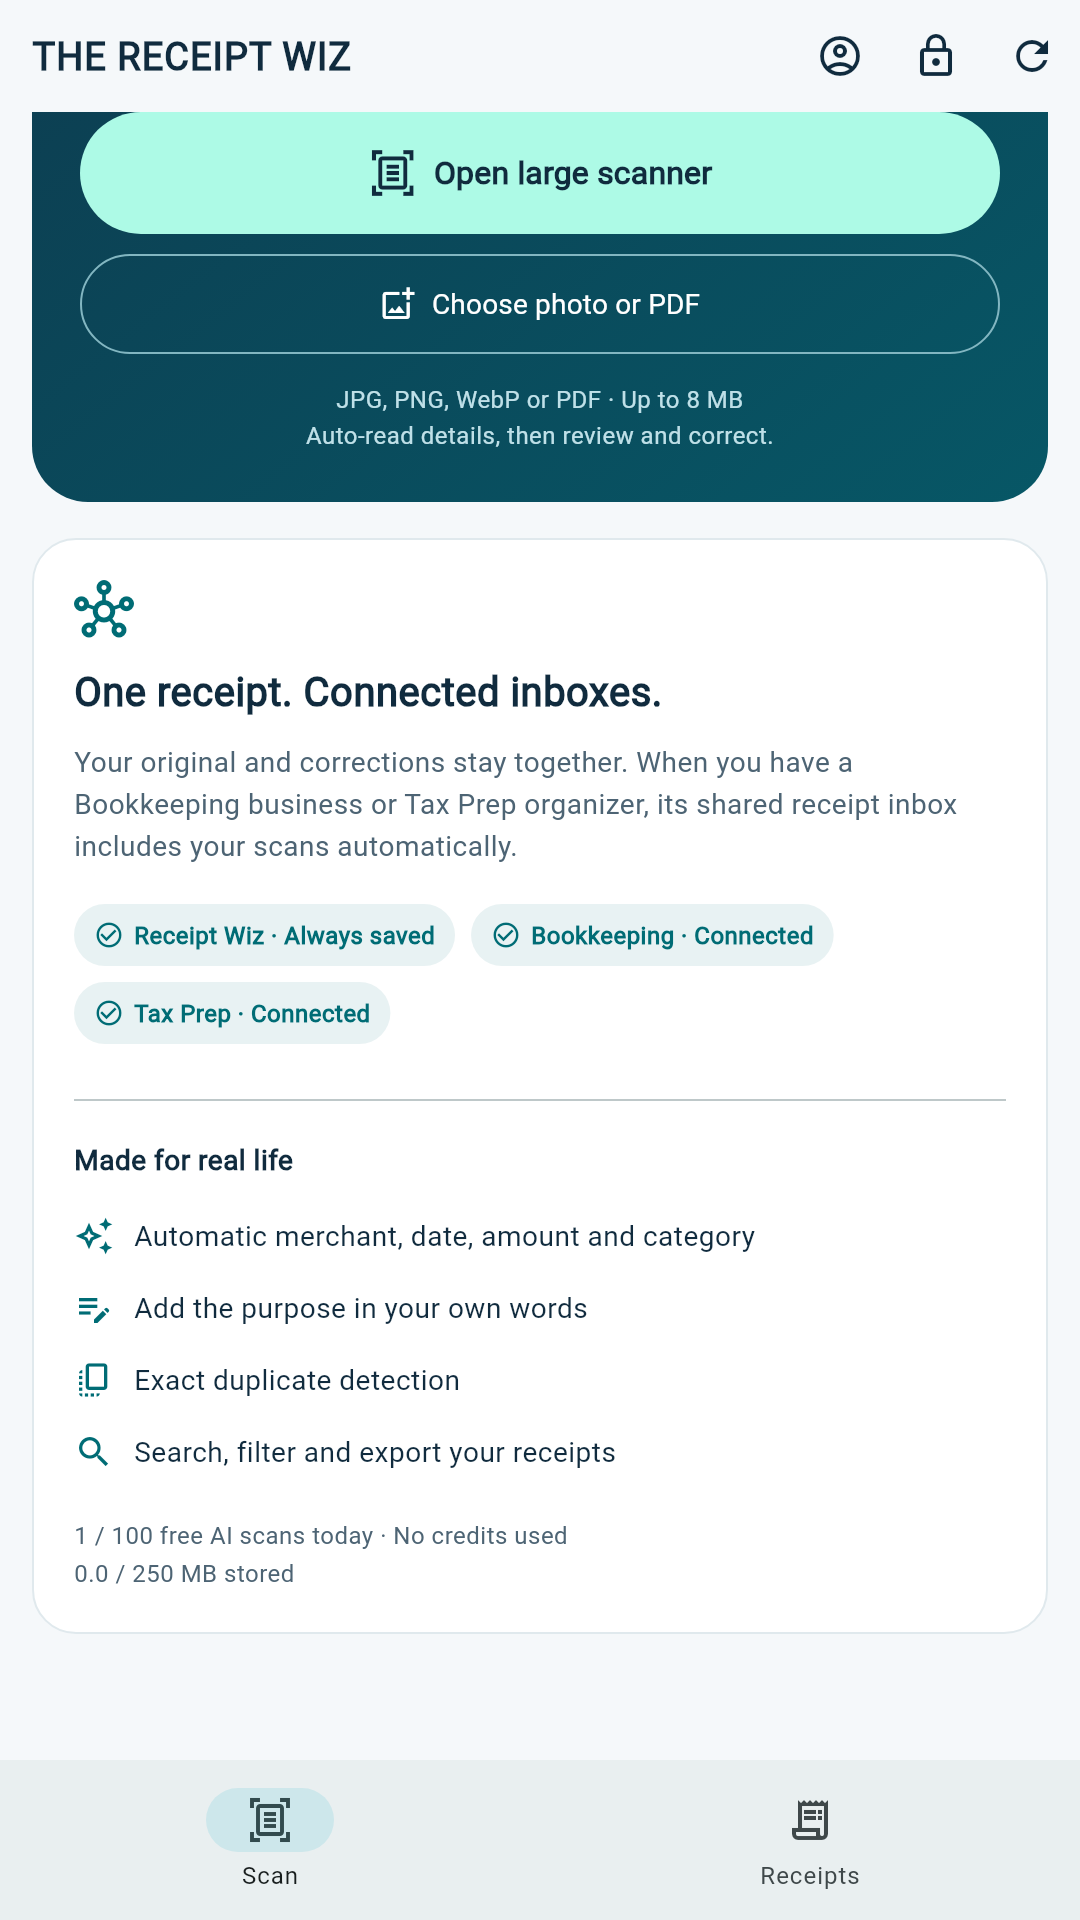
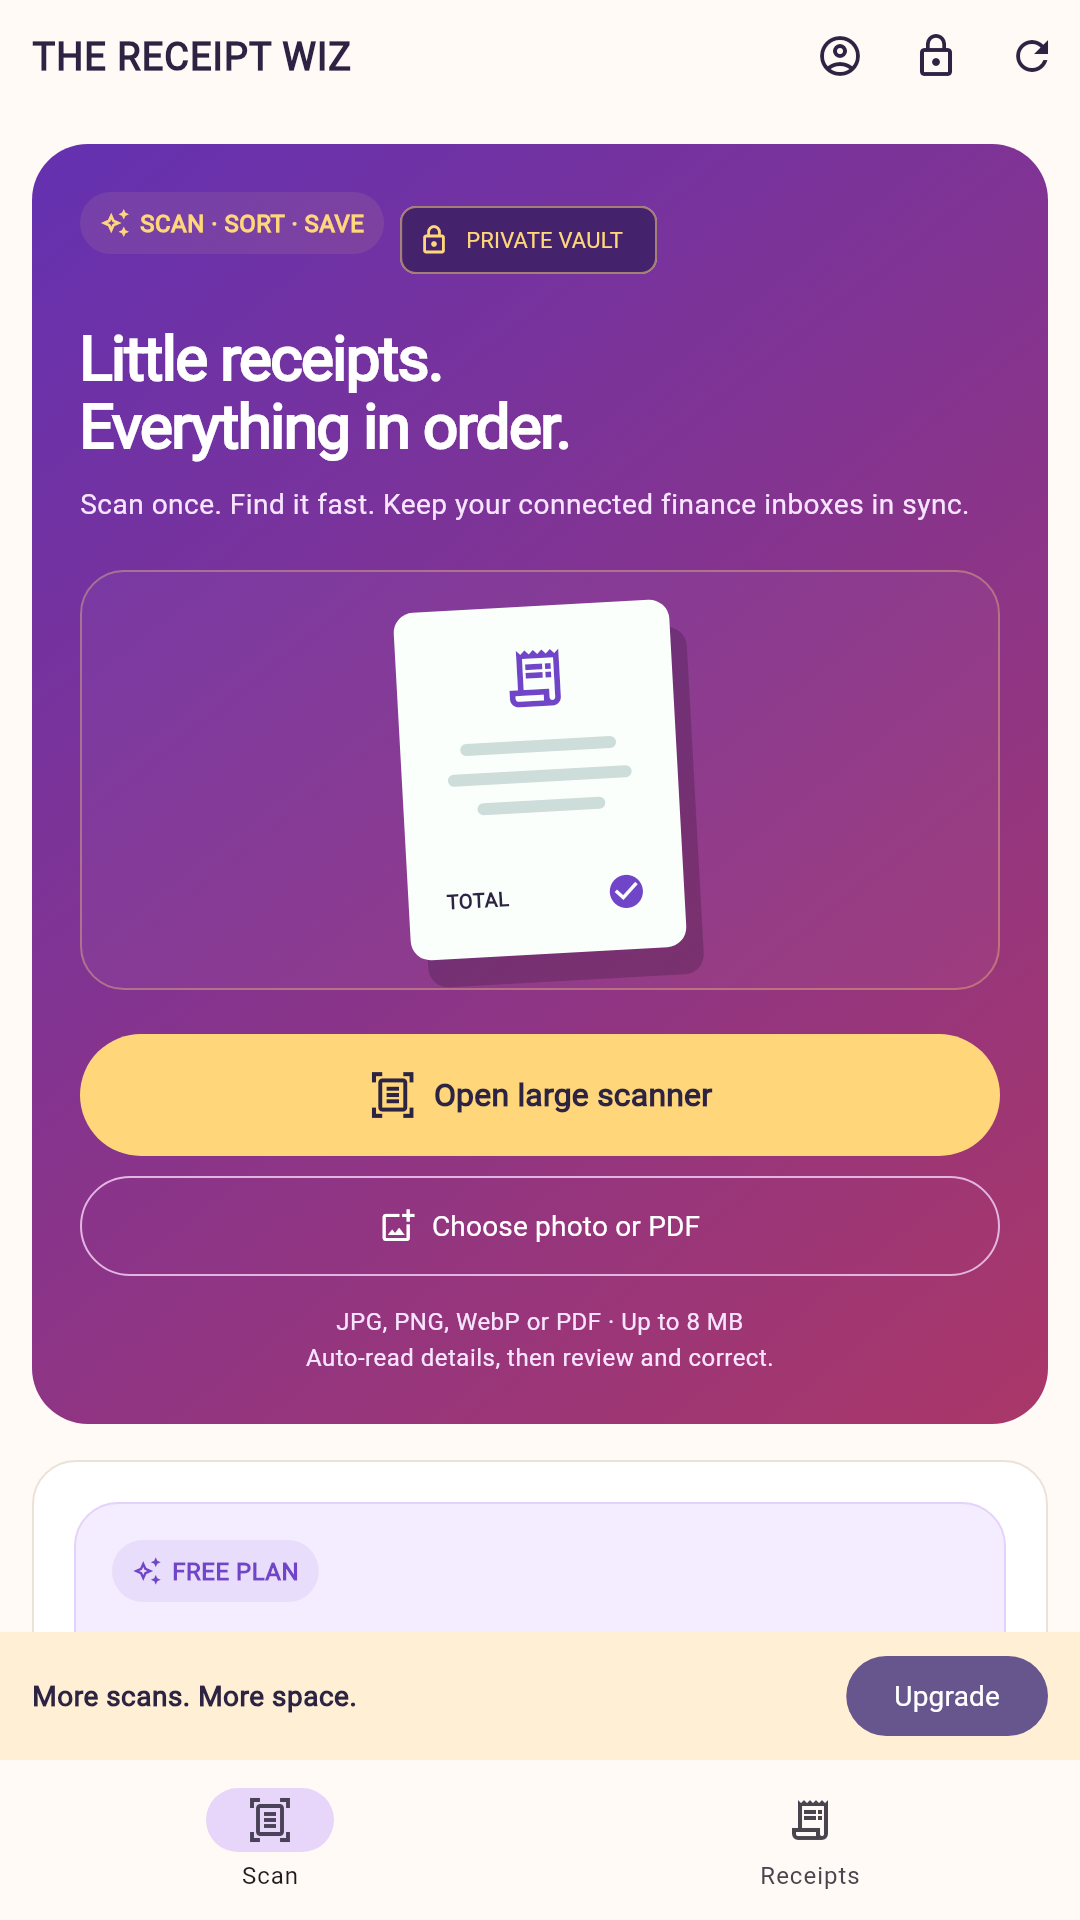
Prepare colorful Receipt Wiz store assets and record Full release gates

diff --git a/docs/RECEIPT_WIZ_FULL_RELEASE_2026-10-24.md b/docs/RECEIPT_WIZ_FULL_RELEASE_2026-10-24.md
@@ -1,0 +1,29 @@
+# Receipt Wiz Full Android candidate — 24 October 2026
+
+The owner confirmed the original internal build downloaded and tested successfully, requested a more colorful frontend and an $8.99/month Full subscription, selected 20 Free AI scans/month and 1,000 Full scans/month, and chose to include Full with existing Pro, Ultra and Enterprise access.
+
+| Plan | Monthly AI scans | Stored receipts | Storage |
+|---|---:|---:|---:|
+| Free | 20 | 100 | 250 MB |
+| Full | 1,000 | 5,000 | 2 GB |
+
+Full uses Google Play product `receipt_wiz_full`, auto-renewing base plan `monthly`, package `com.korlixdeveloper.receiptwiz`, US base price $8.99. The actual local offer is read from Play. Allowances reset on the first of each calendar month at 00:00 UTC, without rollover, and are shared across KORLIX receipt tools. Failed/expired scan reservations are refunded once. Manual editing, search and CSV export remain available, including after cancellation or when above the Free storage allowance. Existing developer unlimited overrides remain intact.
+
+The new receipt entitlement never writes the hub subscription tier. Server verification binds the exact package, product and obfuscated account, preserves purchase-token ownership, rejects test purchases outside the authorized tester IDs, and acknowledges only after the grant is stored. The existing authenticated RTDN endpoint can dispatch Receipt Wiz events separately from hub events. Browser roles cannot read purchase tokens or write usage/entitlements.
+
+## Validation
+
+- 100 backend tests passed across receipt allowances/billing, existing Google/Apple/web billing, signup and session security.
+- 81 shared receipt tests and 22 standalone tests passed; optional screenshot exporters are separate.
+- Static analysis passed for core and standalone app.
+- Real Flutter UI screenshots were regenerated using local sample data only. Phone, landscape, tablet and enlarged-text layout tests passed after the final badge-contrast fix.
+- Runtime app commit: `466eb4e7e3361f1818f0e46764c04e956acf8cc6`.
+- Backend commit: `fc1e11a5dd5fbce58e45d5c4fb99f11cbb88a379`.
+
+## Release gate
+
+An automatic approval review rejected triggering the shared production Render backend deploy because explicit production approval is required. No deployment or live quota migration was performed. Backend release branch is prepared and automatic deployment remains off. The currently live backend remains `f35201cc93233b614d28598d0a7bef00657bbcba`; internal Android version 1.0.0 remains active.
+
+After approval, apply `backend/receipt_wiz/subscription_schema.sql` via Supabase apply_migration (`receipt_wiz_full_subscription`), record the returned migration version, and verify RLS and service-only function/table privileges. Deploy the prepared backend to the existing service and require a live deploy plus HTTP health/access checks. Configure the separate Play product and existing authenticated RTDN delivery, require a successful catalog check for the new app, then enable `KORLIX_RECEIPT_WIZ_BILLING_ENABLED=true` through a merged environment update and verified deployment. Keep the hub billing settings unchanged. Publish the subscription terms from the candidate and update the saved digital-purchases rating answer and Data safety draft.
+
+Only then roll out Android 1.1.0 (2) to the existing internal test track. A Basic license-test account must complete a Google Play test purchase/restore and expiry/cancellation checks; a Pro/Ultra/Enterprise account must show included Full and no extra charge. The owner/developer account intentionally cannot test buying redundant Full. No real purchase was made by the assistant. Public release still requires reviewer sign-in details, target-audience completion and Data safety certification.

diff --git a/apps/receipt_wiz/README.md b/apps/receipt_wiz/README.md
@@ -1,10 +1,8 @@
 # KORLIX Receipt Wiz
 
 Independent Flutter app for the existing KORLIX receipt scanner and private
-receipt library. Version **1.0.0 (1)**. Android/iOS identifier:
-**com.korlixdeveloper.receiptwiz**. The first signed Android release bundle is
-prepared. Separate store records and iOS signing are still required before
-distribution.
+receipt library. Candidate version **1.1.0 (2)**; **1.0.0 (1)** remains the active internal test release. Android/iOS identifier:
+**com.korlixdeveloper.receiptwiz**. Android internal testing is configured, and the owner confirmed downloading and testing version 1.0.0 successfully. iOS store records and signing remain separate.
 
 ## Shared account
 
@@ -16,7 +14,7 @@ distribution.
   registration offers **Sign In** and **Forgot Password?**. Sign In retains the
   email and clears the attempted new password.
 - New registration retains age, guardian-permission and policy checks and
-  selects free Basic, matching the existing free receipt scanner.
+  selects free Basic, with the Free receipt allowance.
 - Confirmation uses the existing web destination. Users verify their email,
   then return here to sign in. No dependency on the hub's custom URL scheme.
   Password recovery uses the existing hosted recovery page.
@@ -207,3 +205,23 @@ Google currently displays its temporary package-based name.
 
 See [Play release status](store/google-play/play-release-status.json) for the
 exact Console and test-track links. Physical-device validation remains pending.
+
+## Receipt Wiz Full candidate
+
+Version 1.1.0 adds purple/coral, amber and green styling, monthly usage, and an
+Android Upgrade/My plan screen. Free: 20 AI scans/month and 100 receipts within
+250 MB. Full: 1,000 scans/month and 5,000 receipts within 2 GB for US$8.99/month
+(localized price confirmed by Google Play). Pro, Ultra and Enterprise include
+Full; existing developer overrides remain unlimited. All allowances belong to
+the shared account and reset on the first calendar day at 00:00 UTC.
+
+The independent `receipt_wiz_full` / `monthly` product is bound to
+`com.korlixdeveloper.receiptwiz`. It never upgrades or downgrades the hub tier.
+Only verified backend entitlement grants access. Failed scans return allowance;
+manual entry, search and CSV remain free, and expiration/limits do not hide
+saved receipts. Restore and Google Play management are available in My plan.
+
+Deployment is pending explicit production approval after an automatic review
+blocked the shared backend deploy. Do not publish the candidate internal release
+or enable checkout before the database, backend, Play catalog and policies are
+ready. See `docs/RECEIPT_WIZ_FULL_RELEASE_2026-10-24.md` for the release checklist.
